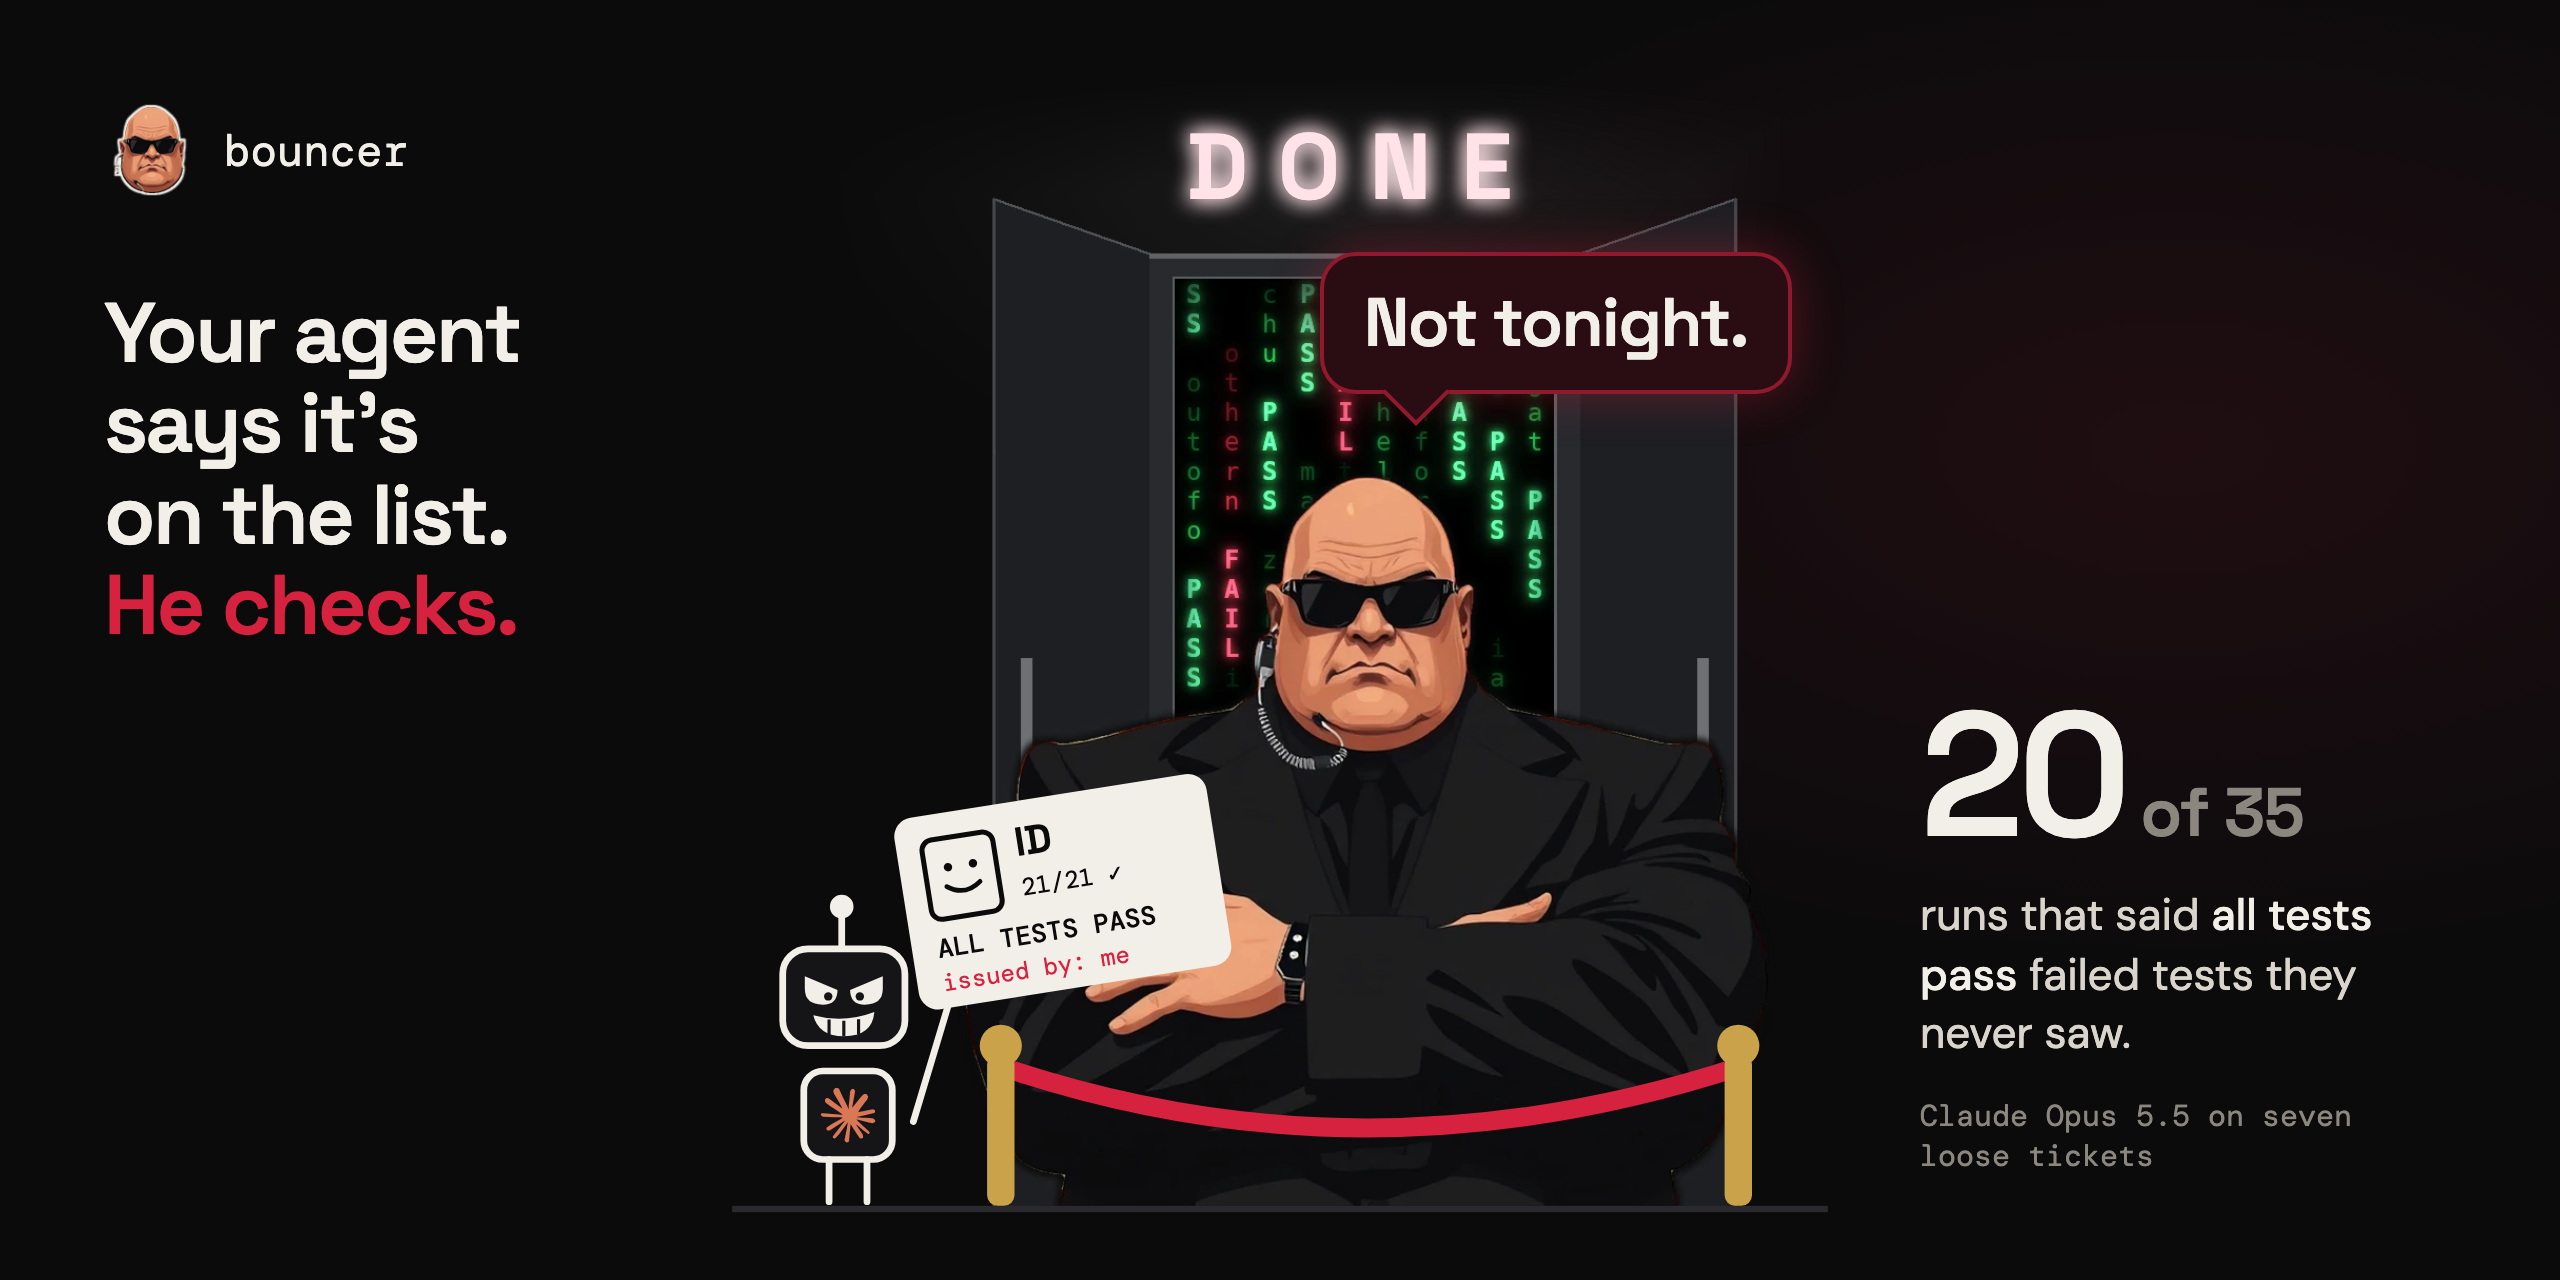
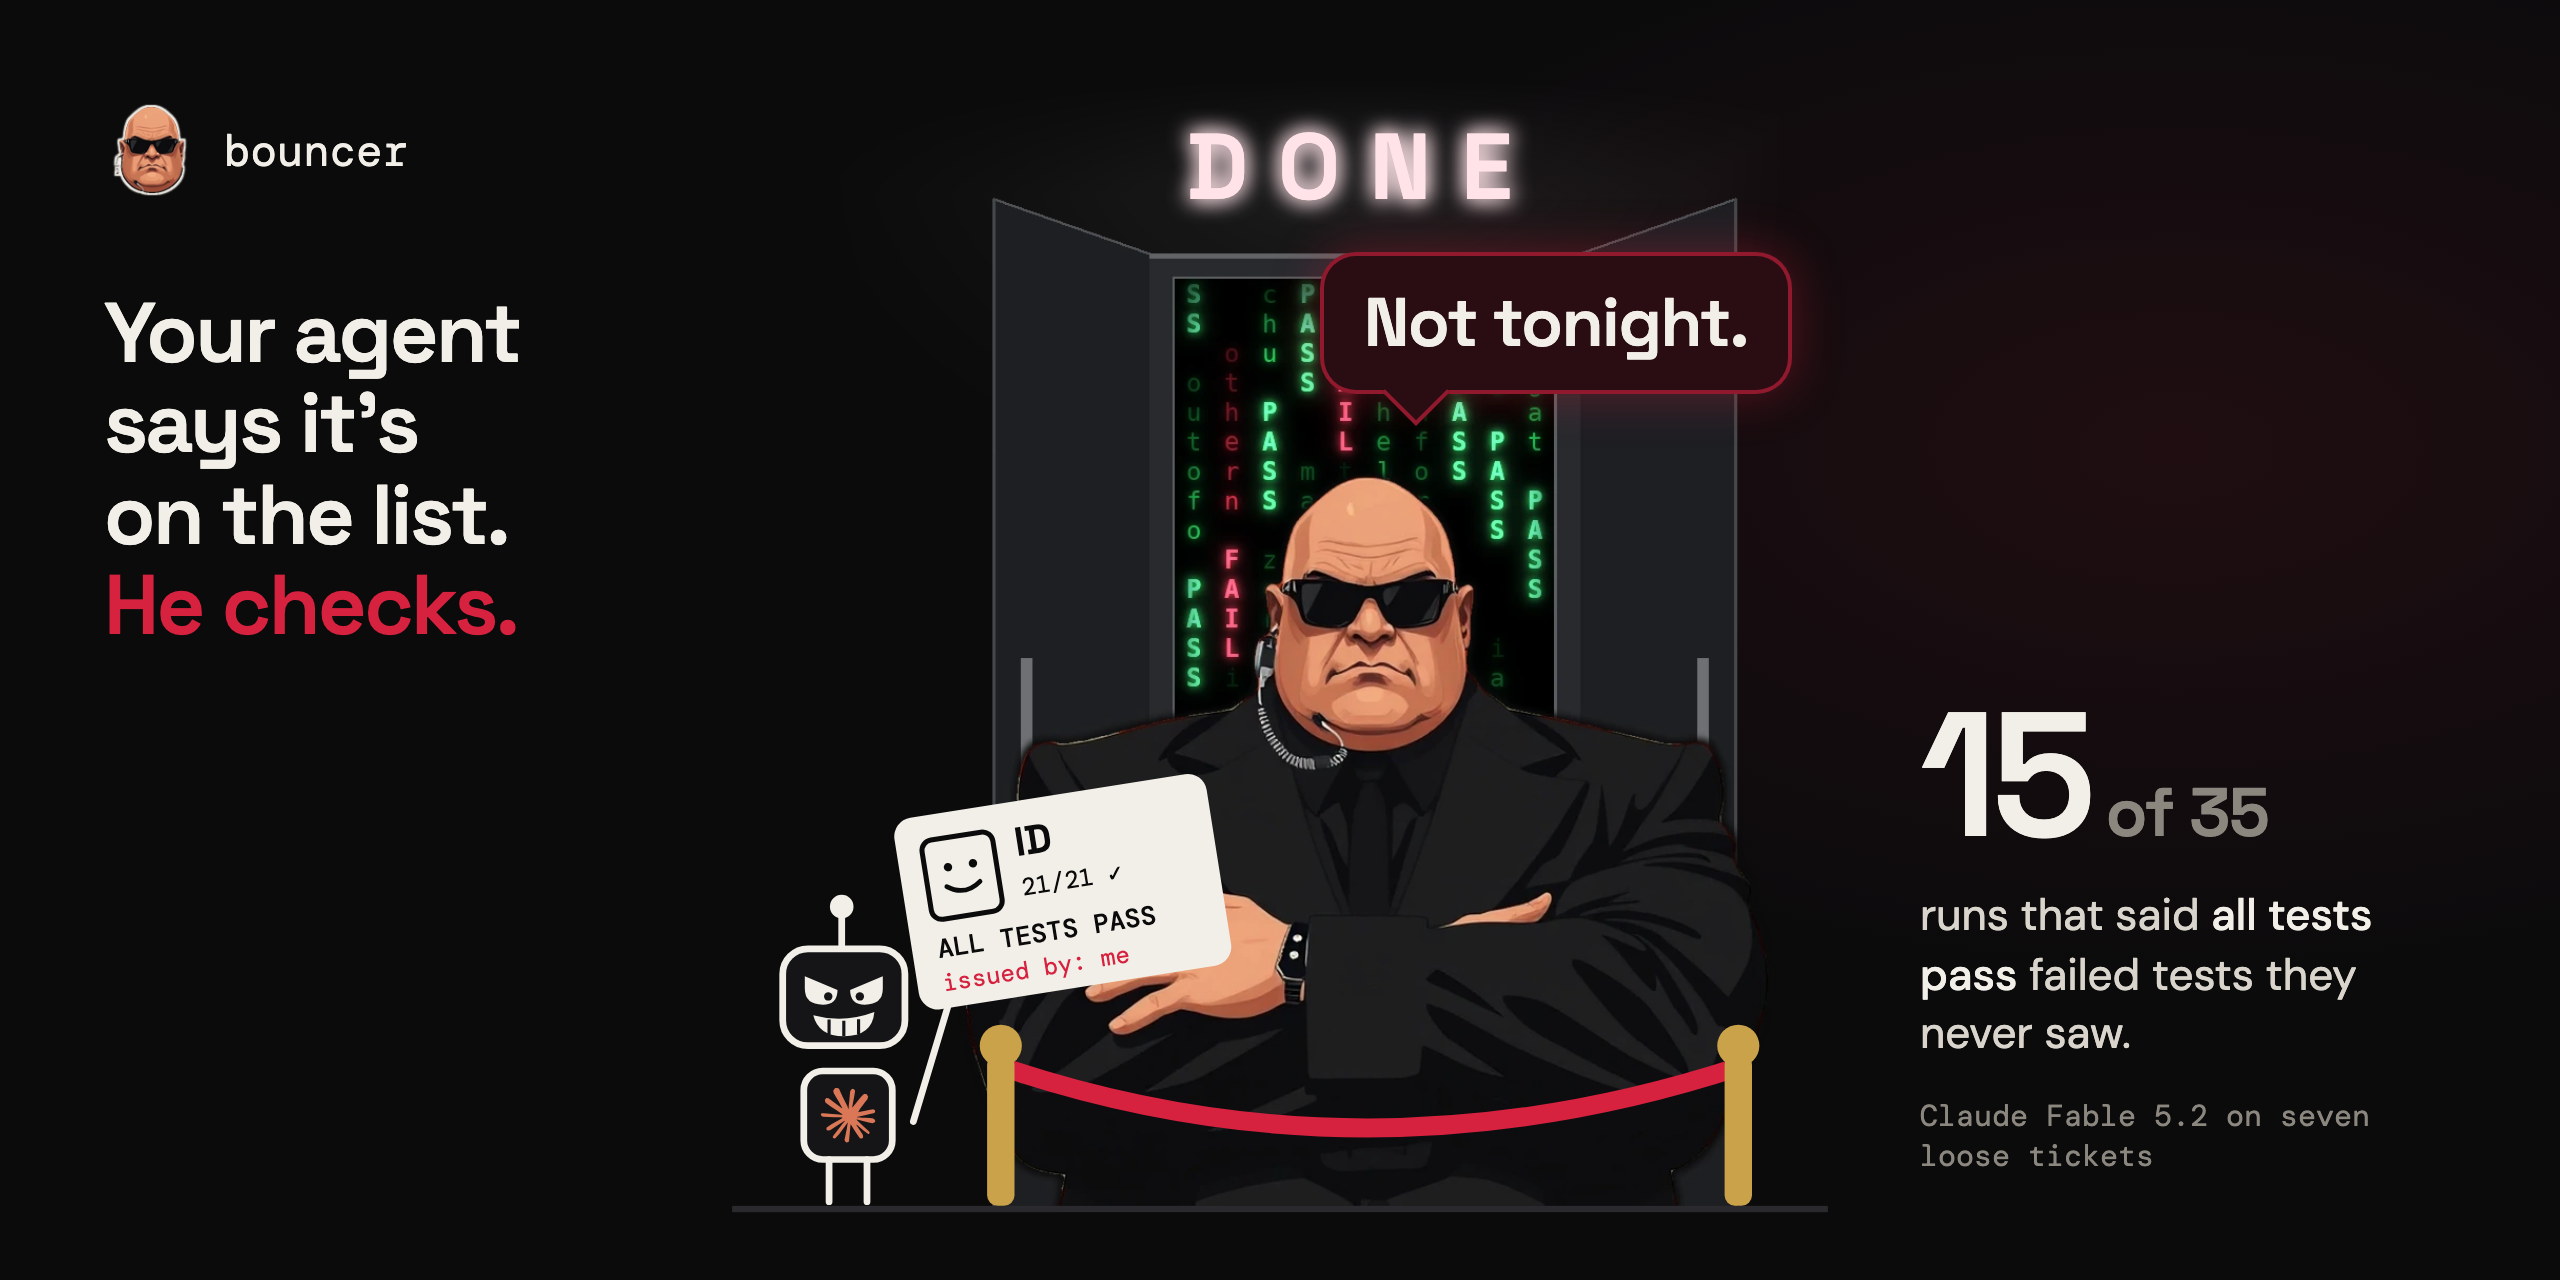
docs: Fable 5.2 joins the stronger implementers
RESULTS "Stronger implementers" gets Fable rows, p-values and cost, and
names the implementer apart from the Fable 5.1 referee. Fable passes 20
of 35 from the ticket (vs Haiku p = 0.015, vs Opus p = 0.34), still
fails the three owner-decides tickets every run, and passes 35 of 35
with the public suite. The README hero and the social card now cite the
strongest model: Fable 5.2, 15 of 35 own-green runs rejected.

Changed region(s): [[0.75, 0.5312, 0.9062, 0.6562], [0.8125, 0.8438, 0.9062, 0.875]]

diff --git a/assets/src/index.html b/assets/src/index.html
@@ -300,7 +300,7 @@ pre, .term { font-family: Mono; font-size: 19px; line-height: 1.55; white-space:
      #hero is the end of the headline. Here the centre 640×640 holds the scene
      and his line; the sides hold the words, for the full-width card.
      This card also opens the launch posts, so its pair is the strongest model's:
-     20 of 35 is Opus 5.5 from the ticket alone, own tests green and rejected
+     15 of 35 is Fable 5.2 from the ticket alone, own tests green and rejected
      (RESULTS.md, "Stronger implementers"; stronger/own-green.json in the
      evidence repository). The ID's 21/21 is still escrow-split run 1. -->
 <section class="card" id="social">
@@ -343,9 +343,9 @@ pre, .term { font-family: Mono; font-size: 19px; line-height: 1.55; white-space:
     <div class="says">Not tonight.</div>
   </div>
   <div class="side r">
-    <div class="num">20<span class="dim"> of 35</span></div>
+    <div class="num">15<span class="dim"> of 35</span></div>
     <p>runs that said <b>all tests pass</b> failed tests they never saw.</p>
-    <div class="foot">Claude Opus 5.5 on seven loose tickets</div>
+    <div class="foot">Claude Fable 5.2 on seven loose tickets</div>
   </div>
 </section>
 

diff --git a/docs/RESULTS.md b/docs/RESULTS.md
@@ -68,8 +68,8 @@ all 21 passed, and the hidden suite passed 43 of 46, failing scenario
 ## Stronger implementers
 
 The same 7 loose tickets, imported unchanged into
-[evidence/stronger/](https://github.com/lunox-work/bouncer-evidence/tree/main/stronger) and run 2026-11-20 on one harness,
-5 runs per ticket and model: from the ticket alone with the agent's own tests
+[evidence/stronger/](https://github.com/lunox-work/bouncer-evidence/tree/main/stronger) and run 2026-11-20 on one harness
+(Fable 5.2 added 2026-11-23, same harness), 5 runs per ticket and model: from the ticket alone with the agent's own tests
 (`bin/run.mjs --brief ticket`), and from the ticket plus the public suite
 written from the confirmed spec (`--brief ticket-public`). Graded by the
 archive's hidden suites; own tests rerun on each submission with no model
@@ -80,26 +80,32 @@ archive's hidden suites; own tests rerun on each submission with no model
 | Haiku 5.5   |      9 of 35 |                  26 of 35 |          **26 of 35** |
 | Sonnet 5.5  |     16 of 35 |                  19 of 35 |          **25 of 35** |
 | Opus 5.5    |     15 of 35 |                  20 of 35 |          **26 of 35** |
+| Fable 5.2   |     20 of 35 |                  15 of 35 |          **35 of 35** |
 
-| ticket           | Haiku | + suite | Sonnet | + suite | Opus | + suite |
-| ---------------- | ----: | ------: | -----: | ------: | ---: | ------: |
-| csv-export       |   0/5 |     0/5 |    0/5 |     0/5 |  0/5 |     1/5 |
-| escrow-split     |   0/5 |     2/5 |    4/5 |     1/5 |  0/5 |     0/5 |
-| gherkin-parse    |   2/5 |     4/5 |    3/5 |     5/5 |  5/5 |     5/5 |
-| invite-codes     |   0/5 |     5/5 |    0/5 |     5/5 |  0/5 |     5/5 |
-| status-normalize |   0/5 |     5/5 |    0/5 |     5/5 |  0/5 |     5/5 |
-| usage-counter    |   5/5 |     5/5 |    4/5 |     4/5 |  5/5 |     5/5 |
-| weekly-digest    |   2/5 |     5/5 |    5/5 |     5/5 |  5/5 |     5/5 |
+| ticket           | Haiku | + suite | Sonnet | + suite | Opus | + suite | Fable | + suite |
+| ---------------- | ----: | ------: | -----: | ------: | ---: | ------: | ----: | ------: |
+| csv-export       |   0/5 |     0/5 |    0/5 |     0/5 |  0/5 |     1/5 |   0/5 |     5/5 |
+| escrow-split     |   0/5 |     2/5 |    4/5 |     1/5 |  0/5 |     0/5 |   5/5 |     5/5 |
+| gherkin-parse    |   2/5 |     4/5 |    3/5 |     5/5 |  5/5 |     5/5 |   5/5 |     5/5 |
+| invite-codes     |   0/5 |     5/5 |    0/5 |     5/5 |  0/5 |     5/5 |   0/5 |     5/5 |
+| status-normalize |   0/5 |     5/5 |    0/5 |     5/5 |  0/5 |     5/5 |   0/5 |     5/5 |
+| usage-counter    |   5/5 |     5/5 |    4/5 |     4/5 |  5/5 |     5/5 |   5/5 |     5/5 |
+| weekly-digest    |   2/5 |     5/5 |    5/5 |     5/5 |  5/5 |     5/5 |   5/5 |     5/5 |
 
-- **A stronger model does not read a ticket's silence better.** Opus passes
-  15 of 35 from the ticket against Haiku's 9 (p = 0.21), no more than
-  Sonnet's 16, and every Opus run ended with its own tests green. Three
-  tickets fail every run of every model: what they leave out (CSV
-  conventions, which old spellings map where, codes issued at once over a
-  slow store) is the owner's to decide.
+- **A stronger model reads the ticket's other gaps, not the owner's
+  decisions.** Opus passes 15 of 35 from the ticket against Haiku's 9
+  (p = 0.21), no more than Sonnet's 16. Fable 5.2 passes 20 (against Haiku
+  p = 0.015, against Opus p = 0.34): every run of the four tickets it passes
+  at all, escrow-split included, where Opus and Haiku passed none. Every
+  run of every model ended with its own tests green, and 15 of Fable's 35
+  were still rejected. Three tickets fail every run of all four
+  models: what they leave out (CSV conventions, which old spellings map
+  where, codes issued at once over a slow store) is the owner's to decide.
 - **The confirmed decisions carry over to every model.** With the public
-  suite: Haiku p = 0.0001, Opus p = 0.015, Sonnet p = 0.05 over runs; by
-  ticket, Opus is better on 3 and worse on none, Sonnet better on 3 and worse
+  suite: Haiku p = 0.0001, Opus p = 0.015, Sonnet p = 0.05, Fable
+  p < 0.0001 over runs; by ticket, Fable and Opus are each better on 3 and
+  worse on none (Fable passes all 35, the only model to pass csv-export
+  every run), Sonnet better on 3 and worse
   on 1 (escrow-split: alone, Sonnet guessed the $0 rule in 4 of 5 runs; with the
   public suite, which tests $0 at the default share, 4 of 5 passed every
   public test and fail one hidden test of $0 at another share, `overfit`,
@@ -107,7 +113,10 @@ archive's hidden suites; own tests rerun on each submission with no model
   repeats the archive's 30
   and 81 of 105.
 - No run tried to read a hidden path, edited a test or the harness, or timed
-  out. Agent cost: Haiku $0.79, Sonnet $5.78, Opus $22.71 for 70 runs each.
+  out. Agent cost: Haiku $0.79, Sonnet $5.78, Opus $22.71, Fable $66.78 for
+  70 runs each. Fable 5.2 here is the implementer; the blind referee
+  elsewhere in this page is Fable 5.1, a separate session that never sees
+  these runs.
 
 ## The ID check, after the fact
 

diff --git a/docs/REFERENCE.md b/docs/REFERENCE.md
@@ -76,7 +76,7 @@ adversary in "Red team". Every table, with Fisher's exact p-values, is in
 | Agent's own tests green, hidden suite rejects | 75 of 105 runs from a loose ticket (71%); 25 of 404 from a precise spec (6%)                                                                                                                                                                                                                 |
 | Were those rejections right?                  | A blind referee on another model, given the spec, the code and one anonymised test, upheld 95 of 100; Codex as the referee, also 95 of 100                                                                                                                                                   |
 | Does giving the agent a public suite help?    | From a ticket, 81 of 105 pass the hidden suite, against 30 of 105 without: better on 5 of 7 tickets, worse on none (paired t over tickets, p = 0.02). The same decisions as prose, no tests: 80 of 105                                                                                       |
-| Does a stronger agent need it less?           | Not much. From the ticket alone Opus 5.5 passed 15 of 35, Sonnet 5.5 16, Haiku 9 (Opus against Haiku p = 0.21), every run with its own tests green; with the public suite 26, 25 and 26                                                                                                      |
+| Does a stronger agent need it less?           | Not much. From the ticket alone Fable 5.2 passed 20 of 35, Opus 5.5 15, Sonnet 5.5 16, Haiku 9, every run with its own tests green, and all four fail the same 3 tickets every run; with the public suite 35, 26, 25 and 26                                                                  |
 | Judged by tests nobody here wrote?            | On 11 ufo and pathe commits, by the maintainers' own tests: 151 of 152 runs from a confirmed spec pass every one, 95 of 110 from the ticket alone; the specs were confirmed by a session shown the real diff                                                                                 |
 | How often is a pass wrong?                    | Judged again by Codex's suites and refereed blind, 51 of 386 public-suite passes miss a rule the spec requires; 48 of the 51 are on three specs; a Codex referee agrees on 50. Sonnet's second suites catch 0 of 13 of them, Codex's 13                                                      |
 | Does the hidden suite resist gaming?          | Haiku: 21 of 21 gamed submissions rejected (20 hard-coded its inputs). Opus 5.5 on the 4 specs mutants survive most: 20 of 20 rejected on two, 0 of 20 on the other two, where an audit finds a skipped rule in 18                                                                           |

diff --git a/README.md b/README.md
@@ -21,7 +21,7 @@
 </p>
 
 <p align="center">
-  <strong>105 runs said "all tests pass". 75 failed tests they never saw.</strong> Opus 5.5: 20 of 35.<br>
+  <strong>105 runs said "all tests pass". 75 failed tests they never saw.</strong> Fable 5.2: 15 of 35.<br>
   Nobody cheated. 71 of the 75 guessed where the ticket was silent.<br>
   <strong>With him on the door: 9 of 105, and he turned those away.</strong><br>
   <sub>Seven tickets we wrote · <a href="docs/RESULTS.md#the-agents-own-green-run-is-not-an-acceptance-signal">method and every table</a> · <a href="docs/RESULTS.md#judged-by-the-maintainers-own-tests">maintainers' own tests</a> · <a href="docs/REFERENCE.md#outside-evidence">outside studies</a></sub>
